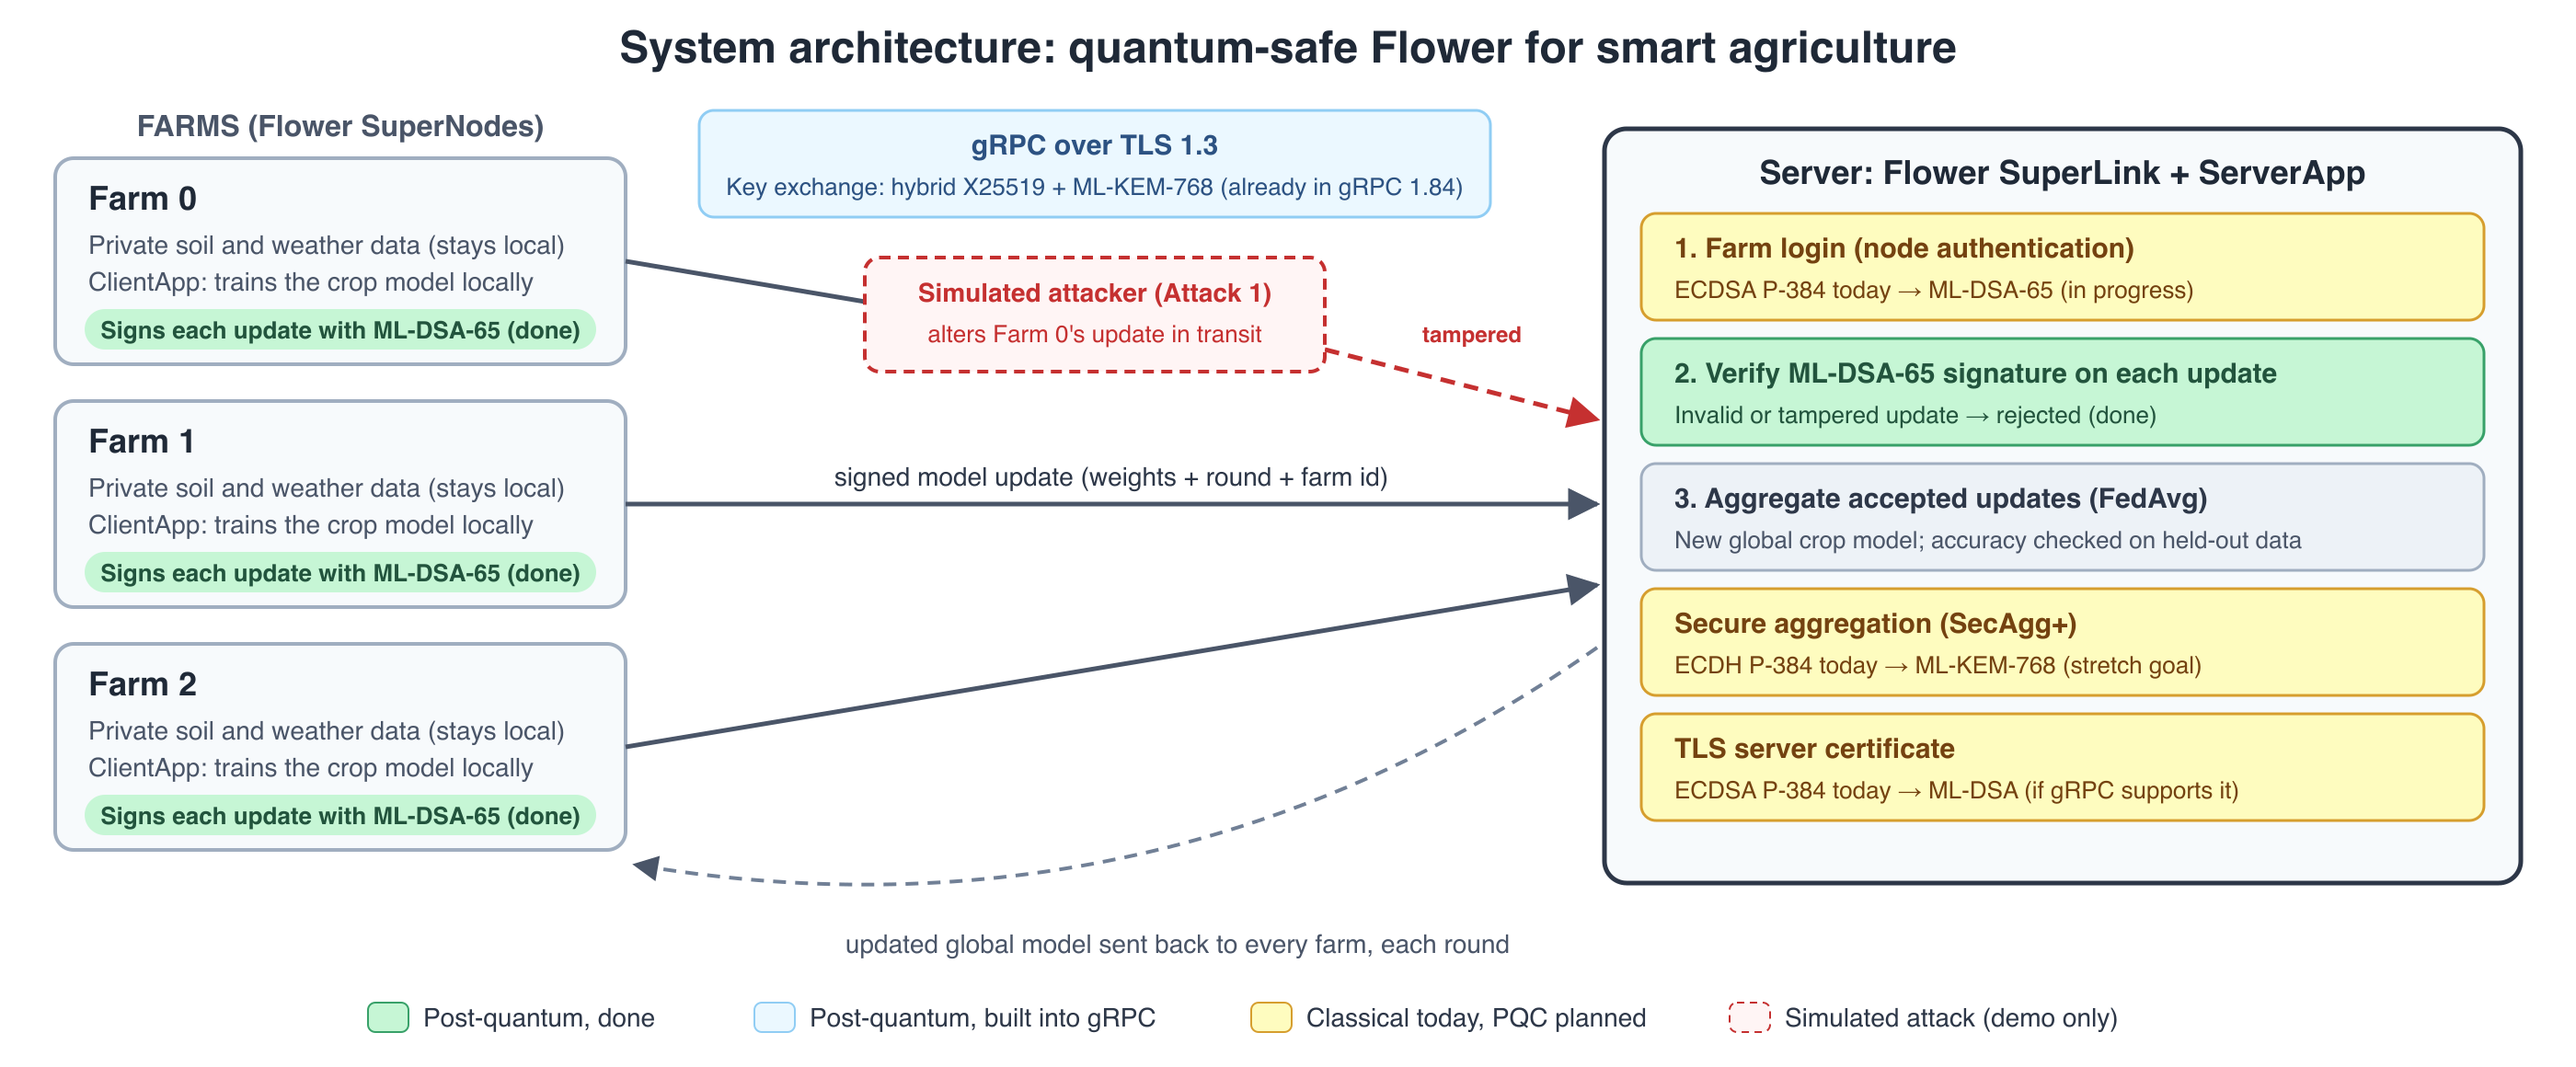
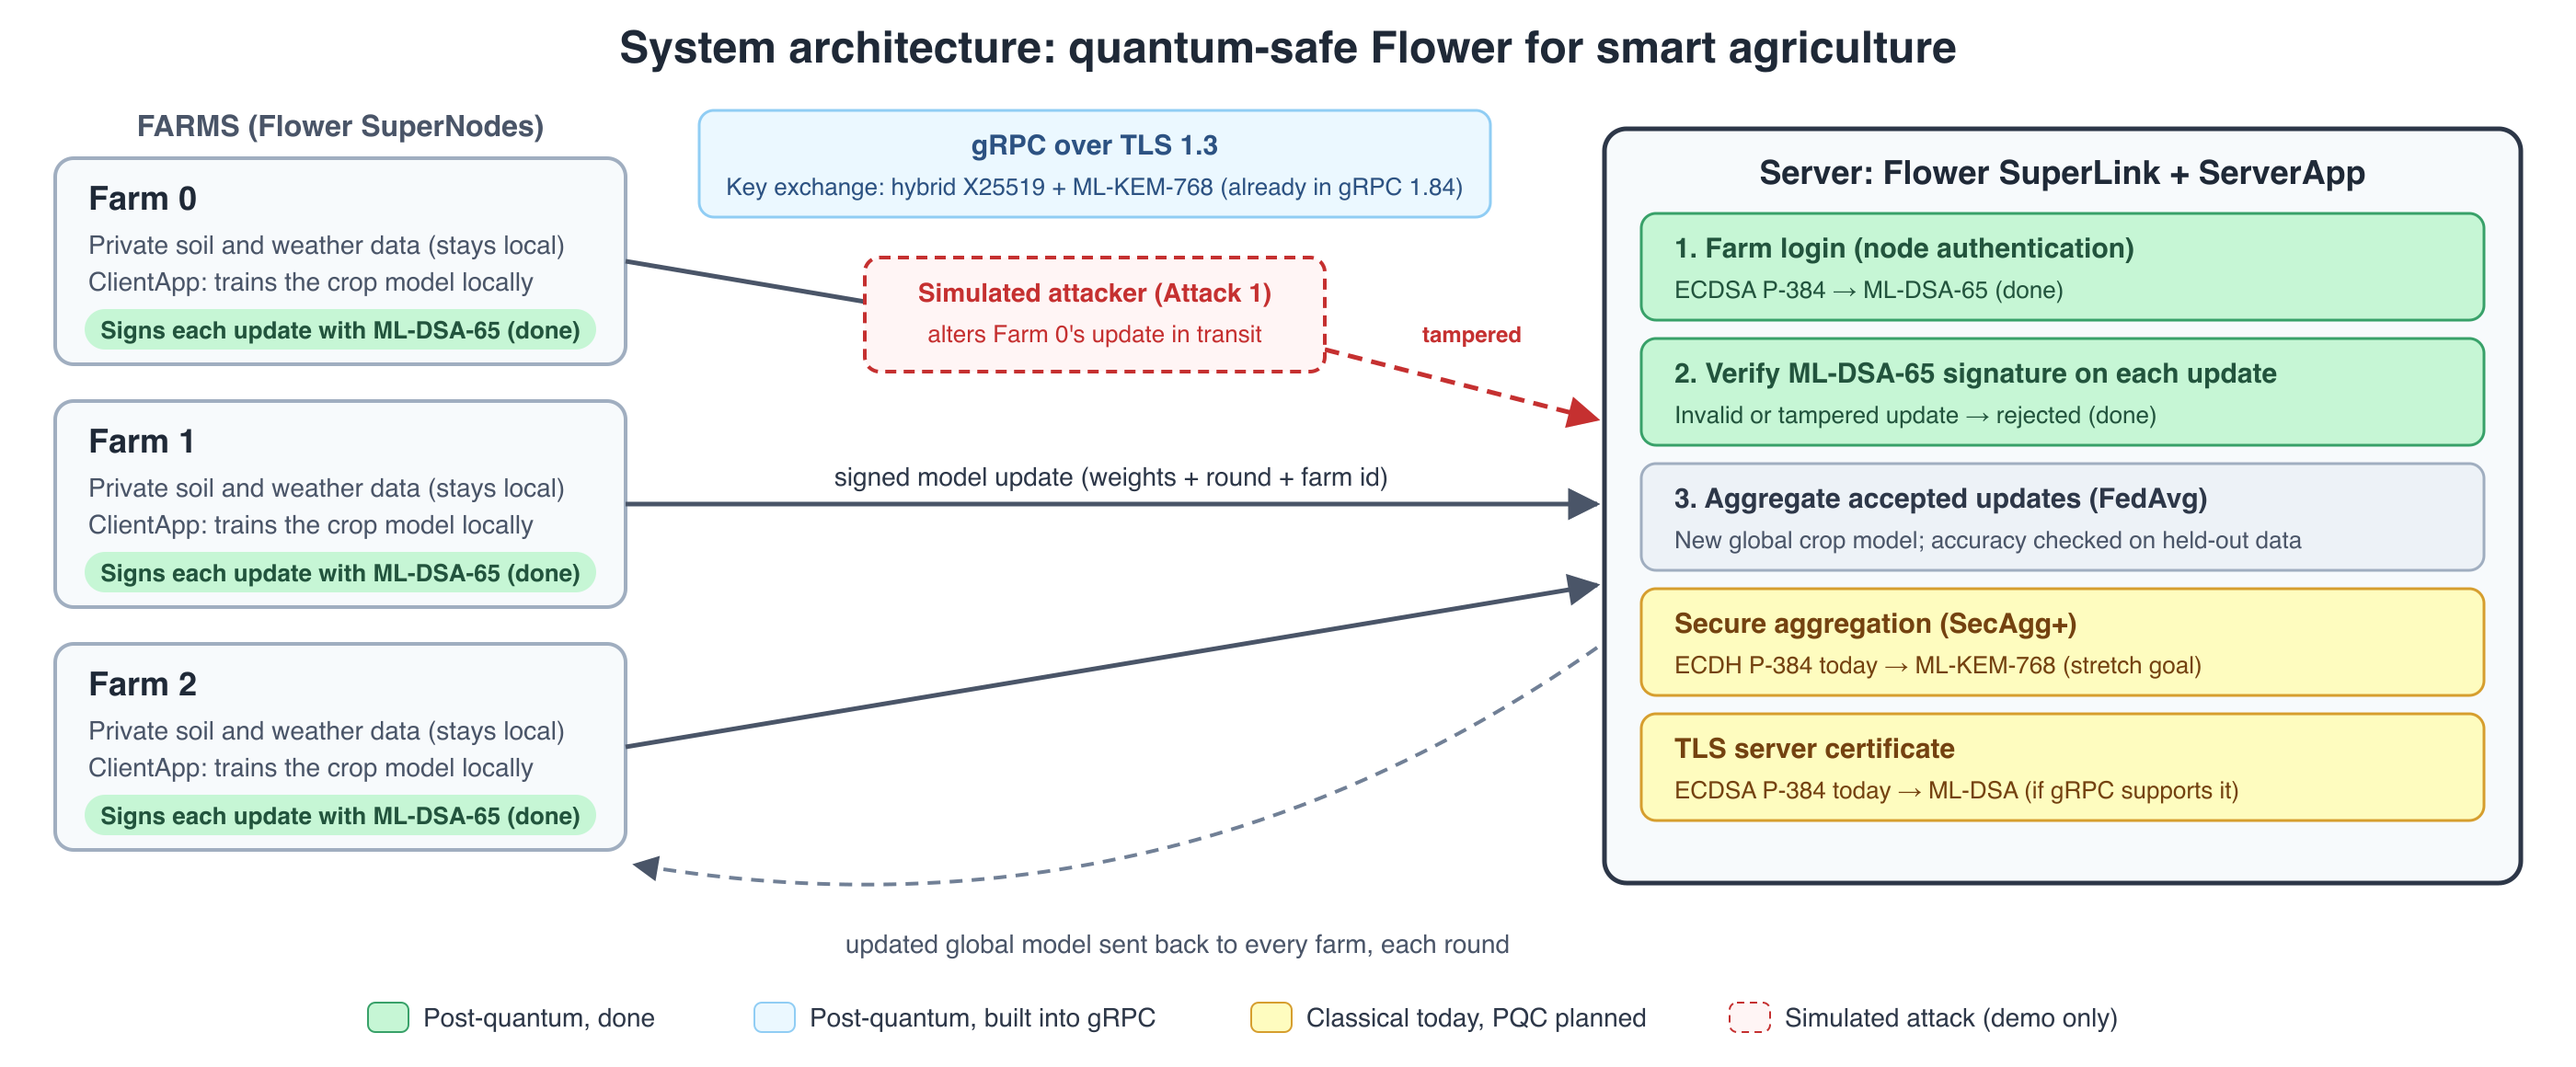
Docs: ML-DSA farm login results; farm login marked done
15 rounds, 3 farms: ML-DSA-65 login 90.9% accuracy, 9.45 s/round (classical
90.9%, 9.4 s). Login headers grow from ~0.3 KB to 6.1 KB per request. Diagram,
ARCHITECTURE.md, README and PLAN updated.

Changed region(s): [[0.6214, 0.1862, 0.9632, 0.3103]]

diff --git a/README.md b/README.md
@@ -23,7 +23,7 @@ The full design, including the step-by-step flow of one training round and a map
 |---|---|---|---|
 | Transport: key exchange | TLS 1.3, **already hybrid X25519MLKEM768** with grpcio 1.84 | `supercore/grpc.py` | Verify, measure, and keep (pin grpcio) |
 | Transport: certificates | ECDSA P-384 (classical) | our `scripts/gen_credentials.sh` | ML-DSA certificates if gRPC supports them, else documented limitation |
-| Node authentication | ECDSA P-384 signature over a **timestamp** in gRPC metadata | `supercore/primitives/asymmetric.py`, `client/grpc_rere_client/node_auth_client_interceptor.py` | ML-DSA |
+| Node authentication | ECDSA P-384 signature over a **timestamp** in gRPC metadata | `supercore/primitives/asymmetric.py`, `client/grpc_rere_client/node_auth_client_interceptor.py` | ML-DSA-65 (**done**, `pqc` mode) |
 | Secure aggregation (SecAgg+) | ECDH P-384 pairwise keys, then HKDF and Fernet | `common/secure_aggregation/crypto/symmetric_encryption.py`, `client/mod/secure_aggregation/secaggplus_mod.py` | ML-KEM |
 | Model update integrity | **None.** Updates are not signed. | none | ML-DSA signature on each update |
 
@@ -81,6 +81,23 @@ scripts/demo_attack.sh 8    # same attack, unsigned then signed (recording: demo
 
 ![Attack 1 demo](demo/attack1_demo.gif)
 
+## ML-DSA-65 farm login (2026-10-18)
+
+`scripts/run_local.sh pqc 3 15` runs the same system with every farm logging in with an **ML-DSA-65** key instead of ECDSA P-384. `pqcflower/pqc_login.py` patches only Flower's five farm-login call sites: the farm's key loading, request signing, `flwr supernode register`, the server's registration check, and the server's signature check. ECDSA keys keep working, and secure aggregation (which shares the same helpers for ECDH) is left untouched. The `pqc-flower-superlink`, `pqc-flower-supernode` and `pqc-flwr` commands are Flower's own commands with the patch applied.
+
+| Farm login | Test accuracy (15 rounds) | Mean round time | Login data per request |
+|---|---|---|---|
+| ECDSA P-384 (classical) | 90.9% | 9.4 s | ~0.3 KB (public key 215 B + signature ~103 B) |
+| **ML-DSA-65** | **90.9%** | 9.45 s | **6.1 KB** (public key 2,726 B + signature 3,309 B), ~8.1 KB on the wire |
+
+Verified (`explore/login_forgery_probe.py`, run against a live server):
+- The server stores 2,726-byte ML-DSA public keys; there is no silent fallback to ECDSA.
+- Forged login (farm 0's public key, attacker's signature) → `UNAUTHENTICATED: Invalid signature`.
+- A farm with an unregistered ML-DSA key cannot activate (`No SuperNode found with the given public key`).
+- The 6.1 KB login headers fit within gRPC's metadata limits.
+
+Round time moves in ~3 s steps set by Flower's polling, so it cannot show millisecond costs; the benchmark harness will measure login overhead directly.
+
 ## Setup and run
 
 ```bash
@@ -88,6 +105,7 @@ uv venv -p 3.12 .venv
 uv pip install -p .venv -r requirements.txt --override overrides.txt -e .   # or: uv sync
 scripts/get_data.sh
 scripts/run_local.sh classical 3 15   # TLS + ECDSA login, 3 farms, 15 rounds (or: insecure)
+scripts/run_local.sh pqc 3 15         # TLS + ML-DSA-65 login
 scripts/stop_all.sh                  # stop leftover Flower processes if a run reports busy ports
 .venv/bin/python explore/bench_primitives.py
 ```
@@ -98,7 +116,7 @@ scripts/stop_all.sh                  # stop leftover Flower processes if a run r
 - [x] Add classical TLS + node auth to the baseline (the real "before" for comparison)
 - [x] Settle the gRPC client group question: hybrid X25519MLKEM768 is already negotiated
 - [ ] Decide the classical reference for TLS (pin an older grpcio for a true classical X25519 baseline?)
-- [ ] Swap node auth ECDSA → ML-DSA
+- [x] Swap node auth ECDSA → ML-DSA (`pqc` mode)
 - [ ] Swap SecAgg+ ECDH → ML-KEM
 - [x] Sign model updates with ML-DSA; demo a tampered update being rejected (Attack 1)
 - [ ] Attack 2: simulated quantum attacker (ECDSA key oracle) impersonating a farm

diff --git a/docs/ARCHITECTURE.md b/docs/ARCHITECTURE.md
@@ -8,7 +8,7 @@ Three farms (Flower **SuperNodes**) each keep their own soil and weather data an
 
 | Colour | Meaning |
 |---|---|
-| Green | Post-quantum, implemented by us (ML-DSA-65 signed model updates) |
+| Green | Post-quantum, implemented by us (ML-DSA-65 farm login and signed model updates) |
 | Blue | Post-quantum, already provided by gRPC 1.84 (hybrid X25519 + ML-KEM-768 key exchange) |
 | Yellow | Classical today; PQC replacement planned |
 | Red, dashed | Simulated attacker, used only in the demos |
@@ -23,7 +23,7 @@ sequenceDiagram
     participant S as Server (SuperLink + ServerApp)
 
     Note over F,S: gRPC over TLS 1.3, key exchange hybrid X25519 + ML-KEM-768
-    F->>S: Farm login: signed timestamp (ECDSA P-384 today, ML-DSA-65 planned)
+    F->>S: Farm login: ML-DSA-65 signature over a timestamp (pqc mode; ECDSA P-384 in classical mode)
     S->>F: Global model + round number
     F->>F: Train on private crop data
     F->>F: Sign (round, farm id, weights) with farm's ML-DSA-65 key
@@ -47,7 +47,7 @@ sequenceDiagram
 |---|---|---|---|
 | TLS key exchange | Hybrid X25519 + ML-KEM-768 (from gRPC 1.84) | Keep; measure against classical X25519 | Verified by handshake capture |
 | TLS server certificate | ECDSA P-384 | ML-DSA, if gRPC supports it | Planned |
-| Farm login (node auth) | ECDSA P-384 over a timestamp | ML-DSA-65 | In progress |
+| Farm login (node auth) | ECDSA P-384 over a timestamp | ML-DSA-65 (`pqc` mode) | **Done** |
 | Model-update integrity | None | ML-DSA-65 signature over round, farm id and weights | **Done** |
 | Secure aggregation (SecAgg+) | ECDH P-384 | ML-KEM-768 | Stretch goal |
 
@@ -60,7 +60,9 @@ sequenceDiagram
 | ML-DSA-65 keys, sign and verify | `pqcflower/signing.py` |
 | Simulated attacker (demo only) | `pqcflower/attack.py` |
 | Data, farm split and model | `pqcflower/task.py` |
-| Start server + farms (insecure / classical TLS + login) | `scripts/run_local.sh` |
+| ML-DSA-65 farm login (patches Flower's login path) | `pqcflower/pqc_login.py`, `pqcflower/cli.py` |
+| Start server + farms (insecure / classical / pqc) | `scripts/run_local.sh` |
 | TLS certificates and farm login keys | `scripts/gen_credentials.sh` |
 | Attack 1 demo | `scripts/demo_attack.sh` |
 | TLS handshake capture | `explore/tls_keyshare_sniffer.py` |
+| Forged-login check | `explore/login_forgery_probe.py` |

diff --git a/PLAN.md b/PLAN.md
@@ -85,7 +85,7 @@ Each attack runs against both versions.
 | Oct 13–14 | ✅ Repo, crypto map, PQC benchmarks | | Classical baseline started |
 | **Oct 15** | **Progress report due (2 pages): all** | | |
 | Oct 16–22 | ✅ Classical TLS + ECDSA login baseline (done Oct 13); TLS: classical vs hybrid comparison, PQC certificates check | ✅ Signed-update format (round + farm id + weights), done Oct 15 | ✅ Baseline done Oct 13; start benchmark harness |
-| Oct 23–29 | ML-DSA farm login | ✅ Signed model updates (Topic 3), done early Oct 15 (PR #1) | Benchmark harness (round time, bytes, handshake) |
+| Oct 23–29 | ✅ ML-DSA farm login, done early Oct 18 | ✅ Signed model updates (Topic 3), done early Oct 15 (PR #1) | Benchmark harness (round time, bytes, handshake) |
 | Oct 30–Nov 5 | ML-KEM in SecAgg+ *(stretch, see below)* | ✅ Attack 1 (tampered update), done early Oct 15; Attack 2 (simulated quantum) | Run classical benchmarks |
 | Nov 6–10 | Integration: one config switch, classical ↔ PQC | Attack demo scripts polished | PQC benchmarks, charts, threat table |
 | Nov 11–14 | **Final report + demo rehearsal: all** | | |
